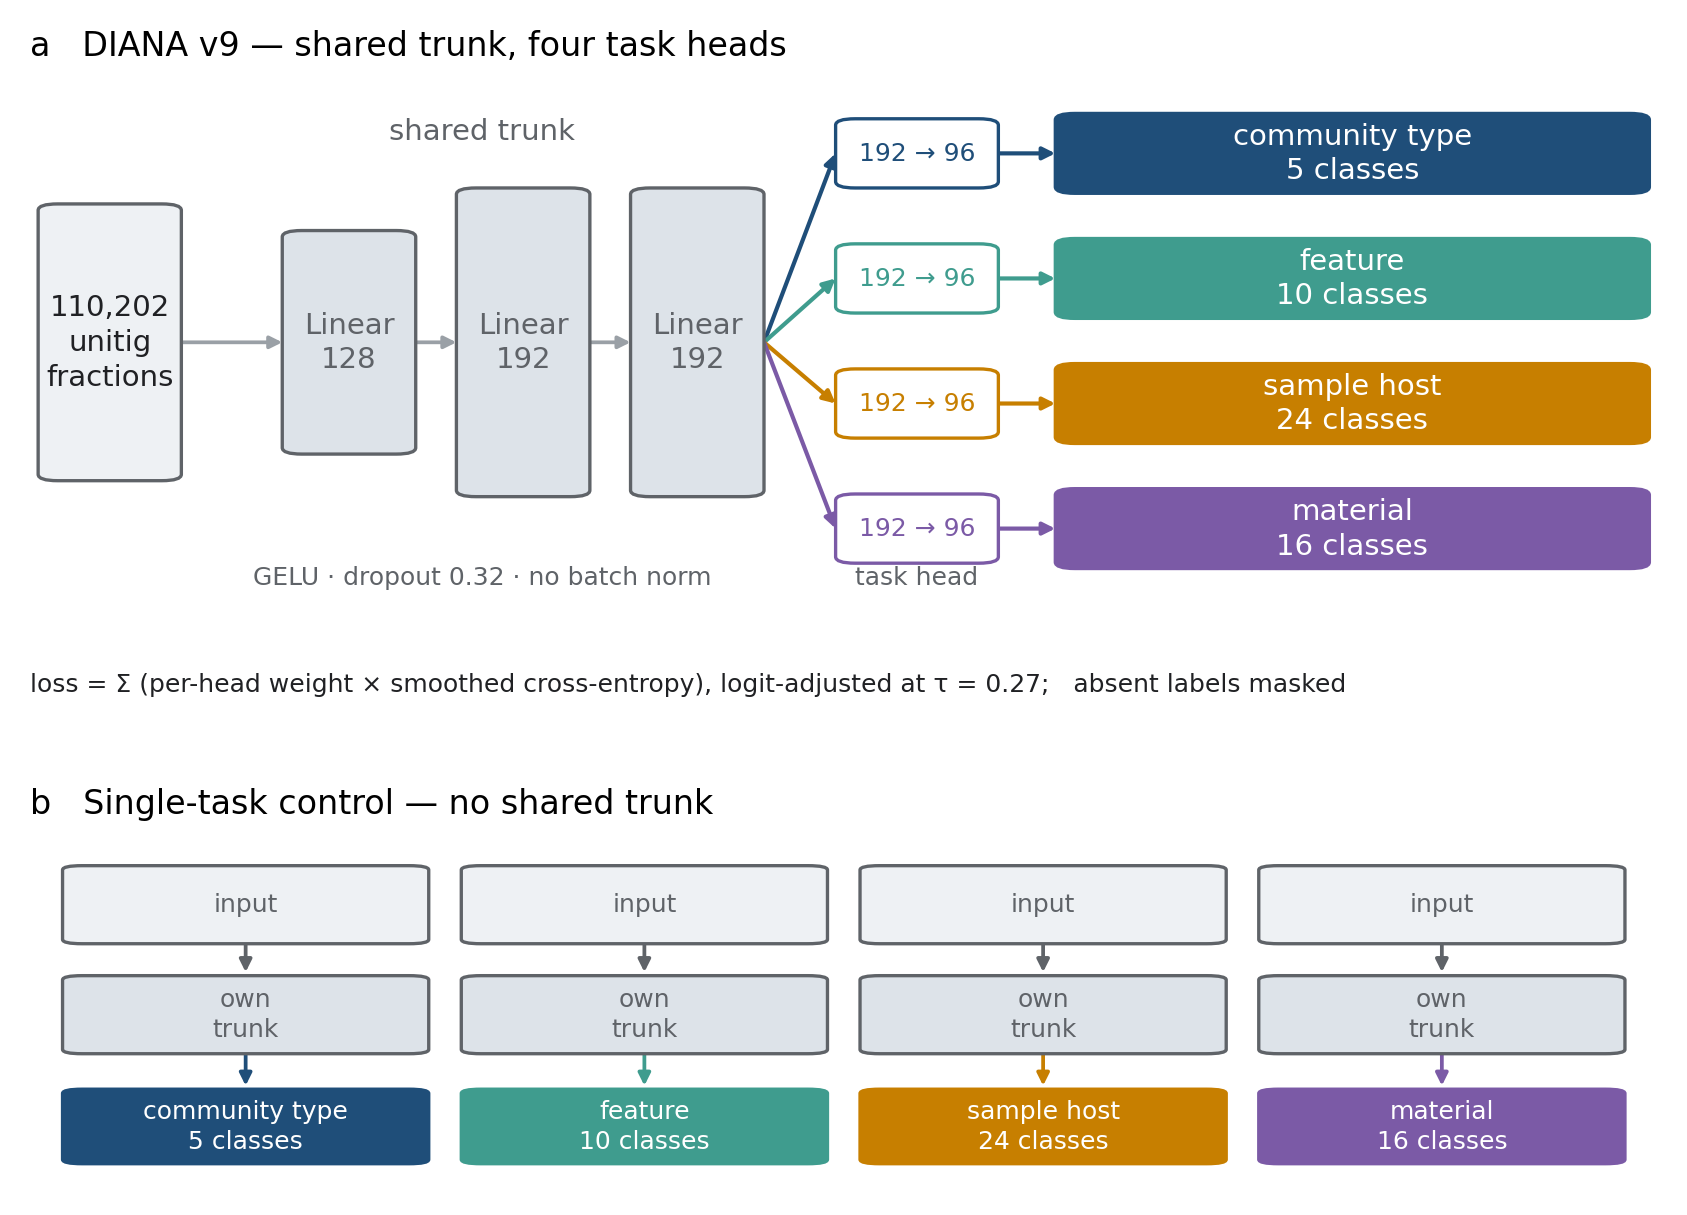
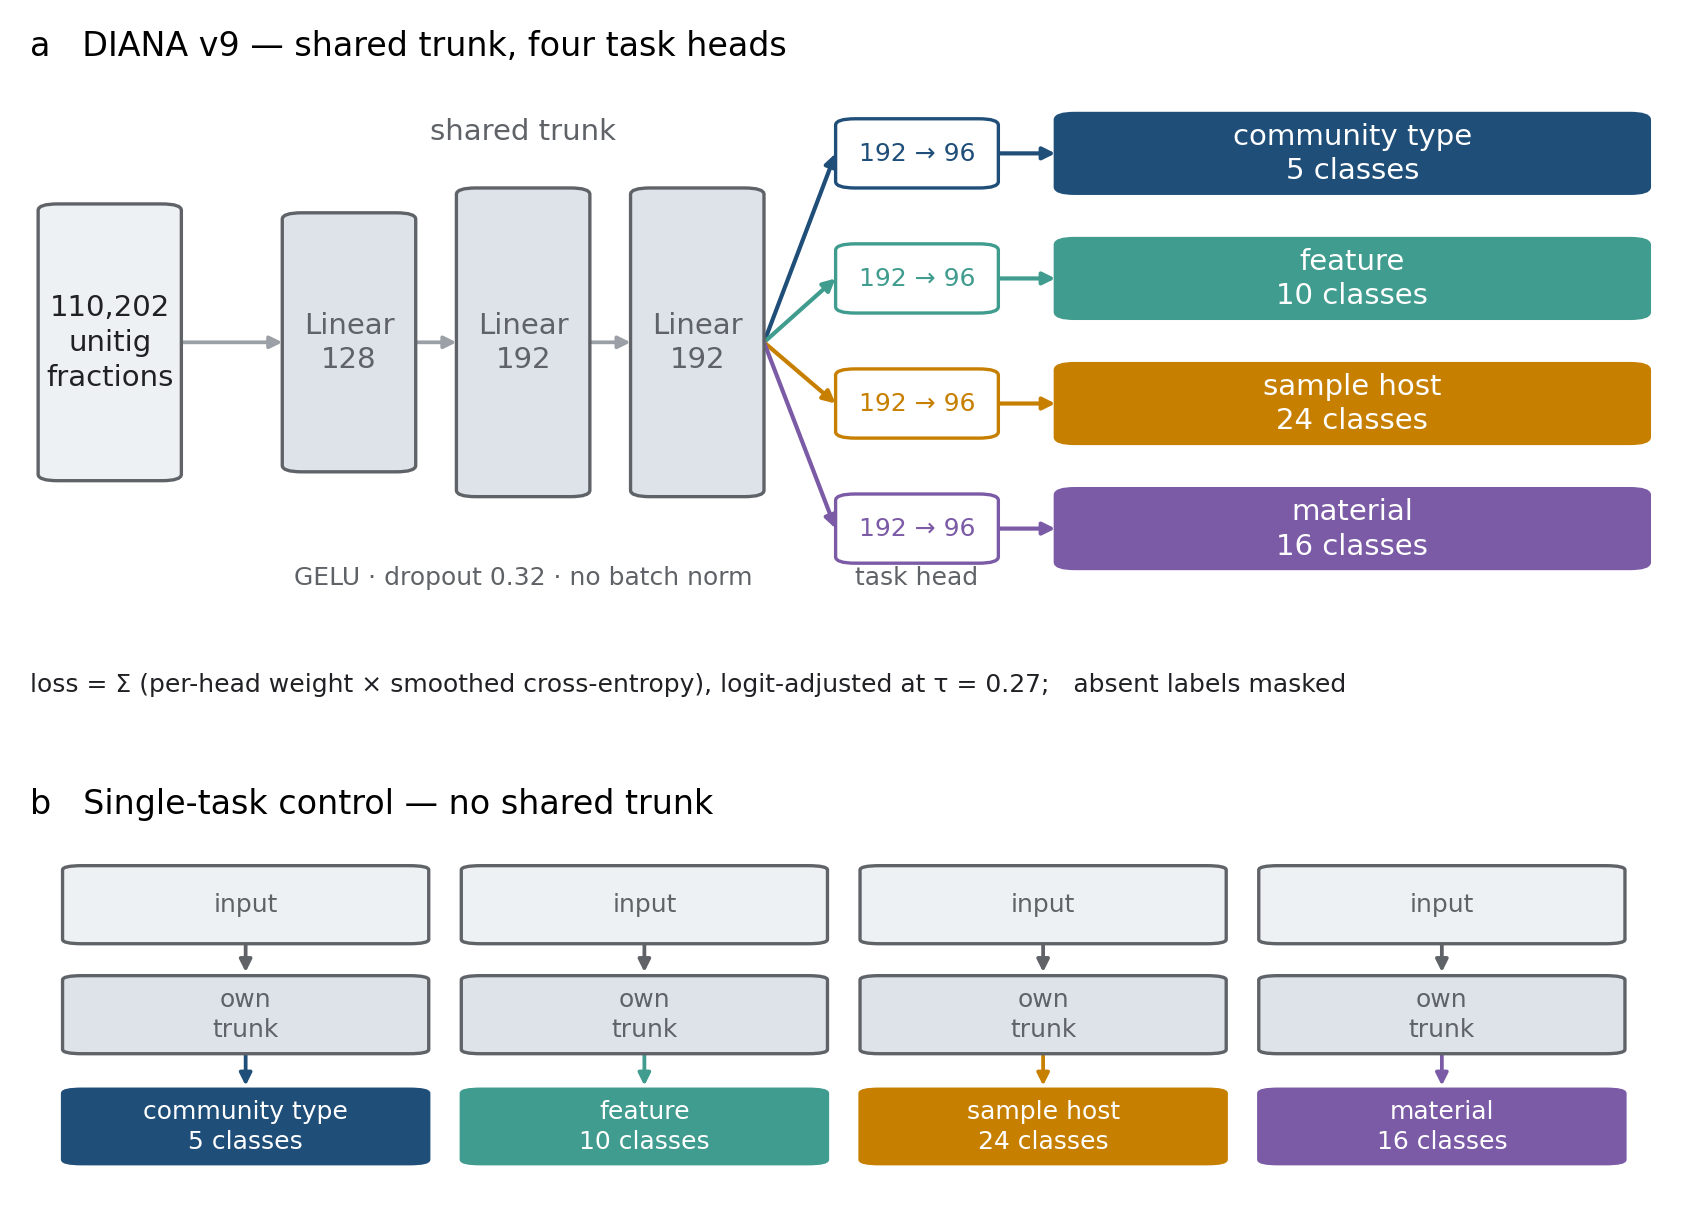
figure: read v9 architecture values from the search output
plot_v9_architecture.py no longer carries the hyperparameters as literals. It
reads them at plot time, first hit wins:

  <search>/final_training_config.json           (resolved hidden_dims)
  <search>/cv_results/best_hyperparameters.json (hidden_dim_<i>, may be float)
  <search>/**/search_all_train_best_params.json (all-train search)

searching results/search_v9_multitask then results/search_v9_final. Optuna
returns hidden_dim_<i> as a float; the loader mirrors aggregate_cv_results.py's
int(round(...)) so the drawn widths are the ones the model was built with.
Trunk geometry is generated from len(hidden_dims), so a search selecting 2 or 4
layers redraws correctly instead of silently keeping three boxes. Head sizes
now come from data/splits_v9/train_metadata.tsv rather than being typed in.

If no search output exists the figure still renders, but from an explicit
FALLBACK dict and with a printed warning not to use it in the paper. The script
also prints the caption with the live numbers, so caption and figure cannot
drift apart.

diff --git a/scripts/paper/plot_v9_architecture.py b/scripts/paper/plot_v9_architecture.py
@@ -29,9 +29,11 @@ Provenance:
 
 Output: results/paper/v9_architecture.png
 """
+import json
 from pathlib import Path
 
 import matplotlib as mpl
+import pandas as pd
 import matplotlib.pyplot as plt
 from matplotlib.patches import FancyArrowPatch, FancyBboxPatch
 
@@ -45,12 +47,90 @@ mpl.rcParams.update({
     "axes.titlesize": BASE, "figure.dpi": 300, "savefig.dpi": 300,
 })
 
-HEADS = [
-    ("community type", 5,  "#1F4E79"),
-    ("feature",        10, "#3F9C8E"),
-    ("sample host",    24, "#C77F00"),
-    ("material",       16, "#7B5AA6"),
-]
+TASKS = ["community_type", "feature", "sample_host", "material"]
+HEAD_LABEL = {"community_type": "community type", "feature": "feature",
+              "sample_host": "sample host", "material": "material"}
+HEAD_COLOUR = {"community_type": "#1F4E79", "feature": "#3F9C8E",
+               "sample_host": "#C77F00", "material": "#7B5AA6"}
+
+# Values used only if no search output exists yet, so the figure still renders
+# while the search runs. Every one is overwritten as soon as it does.
+FALLBACK = {"hidden_dims": [128, 192, 192], "dropout": 0.32, "activation": "gelu",
+            "batch_norm": False, "tau": 0.27,
+            "weights": {"community_type": 1.40, "feature": 1.74,
+                        "sample_host": 1.49, "material": 1.27},
+            "smoothing": {"community_type": 0.02, "feature": 0.04,
+                          "sample_host": 0.07, "material": 0.11}}
+
+SEARCH_DIRS = [ROOT / "results/search_v9_multitask", ROOT / "results/search_v9_final"]
+
+
+def load_searched() -> dict:
+    """Read the hyperparameters the grouped search selected.
+
+    Tried in order, first hit wins:
+      1. <search>/final_training_config.json          (resolved hidden_dims list)
+      2. <search>/cv_results/best_hyperparameters.json (hidden_dim_<i>, may be float)
+      3. <search>/**/search_all_train_best_params.json (single all-train search)
+
+    Optuna returns hidden_dim_<i> as a float; aggregate_cv_results.py converts
+    with int(round(...)) and this mirrors that, so the figure shows exactly the
+    widths the model was built with. Falls back to FALLBACK with a printed
+    warning, never silently.
+    """
+    cands = []
+    for d in SEARCH_DIRS:
+        cands += [d / "final_training_config.json",
+                  d / "cv_results" / "best_hyperparameters.json"]
+        cands += sorted(d.rglob("search_all_train_best_params.json"))
+    src = next((c for c in cands if c.exists()), None)
+    if src is None:
+        print(f"WARNING: no search output under {[str(d) for d in SEARCH_DIRS]} — "
+              "figure drawn from FALLBACK values, do NOT use in the paper")
+        return {**FALLBACK, "source": "FALLBACK (search not finished)"}
+
+    raw = json.loads(src.read_text())
+    p = raw.get("model", raw) if "hidden_dims" in raw.get("model", {}) else raw
+    p = {**raw, **(raw.get("model") or {}), **(raw.get("best_hyperparameters") or {})}
+
+    if isinstance(p.get("hidden_dims"), list):
+        dims = [int(round(v)) for v in p["hidden_dims"]]
+    else:
+        n = int(p.get("n_layers", 3))
+        dims = [int(round(p[f"hidden_dim_{i}"])) for i in range(n)]
+
+    hp = {
+        "hidden_dims": dims,
+        "dropout": float(p["dropout"]),
+        "activation": str(p.get("activation", "gelu")),
+        "batch_norm": bool(round(float(p.get("use_batch_norm", 0)))),
+        "tau": float(p.get("logit_adjust_tau", 0.0) or 0.0),
+        "weights": {t: float(p[f"task_weight_{t}"]) for t in TASKS
+                    if f"task_weight_{t}" in p},
+        "smoothing": {t: float(p[f"ls_{t}"]) for t in TASKS if f"ls_{t}" in p},
+        "source": str(src.relative_to(ROOT)),
+    }
+    for k in ("weights", "smoothing"):
+        if not hp[k]:
+            print(f"WARNING: {k} absent from {hp['source']} — using FALLBACK for it")
+            hp[k] = FALLBACK[k]
+    return hp
+
+
+def class_counts() -> dict:
+    """Head sizes as they are in the split the model was trained on."""
+    md = pd.read_csv(ROOT / "data/splits_v9/train_metadata.tsv", sep="\t",
+                     low_memory=False)
+    out = {}
+    for t in TASKS:
+        v = md[t].astype(str).str.strip()
+        out[t] = int(v[~v.str.lower().isin(["nan", "none", "null", ""])].nunique())
+    return out
+
+
+HP = load_searched()
+NCLS = class_counts()
+HEADS = [(HEAD_LABEL[t], NCLS[t], HEAD_COLOUR[t]) for t in TASKS]
 GREY, INK, TRUNK = "#9AA0A6", "#202124", "#5F6368"
 FILL = "#DDE3E9"
 
@@ -82,30 +162,37 @@ for ax in (axa, axb):
 box(axa, 0.005, 0.24, 0.088, 0.52, "#EEF1F4", TRUNK,
     "110,202\nunitig\nfractions", ANN)
 
-trunk_x, trunk_h = [0.155, 0.262, 0.369], [0.42, 0.58, 0.58]
-for i, (x, h) in enumerate(zip(trunk_x, trunk_h)):
-    box(axa, x, 0.5 - h / 2, 0.082, h, FILL, TRUNK,
-        f"Linear\n{[128, 192, 192][i]}", ANN, TRUNK)
-    arrow(axa, 0.093 if i == 0 else trunk_x[i - 1] + 0.082, 0.5, x, 0.5)
+dims = HP["hidden_dims"]
+bw, gap, x0 = 0.082, 0.025, 0.155
+trunk_x = [x0 + i * (bw + gap) for i in range(len(dims))]
+trunk_h = [0.30 + 0.28 * (d / max(dims)) for d in dims]
+for i, (x, h, d) in enumerate(zip(trunk_x, trunk_h, dims)):
+    box(axa, x, 0.5 - h / 2, bw, h, FILL, TRUNK, f"Linear\n{d}", ANN, TRUNK)
+    arrow(axa, 0.093 if i == 0 else trunk_x[i - 1] + bw, 0.5, x, 0.5)
+trunk_mid = (trunk_x[0] + trunk_x[-1] + bw) / 2
+head_x = trunk_x[-1] + bw + 0.044
 
-axa.text(0.278, 0.87, "shared trunk", ha="center", va="bottom",
+axa.text(trunk_mid, 0.87, "shared trunk", ha="center", va="bottom",
          fontsize=ANN, color=TRUNK)
-axa.text(0.278, 0.08, "GELU · dropout 0.32 · no batch norm",
+axa.text(trunk_mid, 0.08,
+         f"{HP['activation'].upper()} · dropout {HP['dropout']:.2f} · "
+         f"{'batch norm' if HP['batch_norm'] else 'no batch norm'}",
          ha="center", va="top", fontsize=TICK, color=TRUNK)
 
 ys = [0.855, 0.620, 0.385, 0.150]
 for (name, k, col), y in zip(HEADS, ys):
-    arrow(axa, 0.451, 0.5, 0.495, y, color=col, lw=1.0)
-    box(axa, 0.495, y - 0.065, 0.100, 0.13, "white", col, "192 → 96", TICK, col)
-    arrow(axa, 0.595, y, 0.630, y, color=col, lw=1.0)
+    arrow(axa, trunk_x[-1] + bw, 0.5, head_x, y, color=col, lw=1.0)
+    box(axa, head_x, y - 0.065, 0.100, 0.13, "white", col,
+        f"{dims[-1]} → {dims[-1] // 2}", TICK, col)
+    arrow(axa, head_x + 0.100, y, 0.630, y, color=col, lw=1.0)
     box(axa, 0.630, y - 0.075, 0.365, 0.15, col, col,
         f"{name}\n{k} classes", ANN, "white")
 
-axa.text(0.545, 0.08, "task head", ha="center", va="top",
+axa.text(head_x + 0.050, 0.08, "task head", ha="center", va="top",
          fontsize=TICK, color=TRUNK)
 axa.text(0.0, -0.12,
          "loss = Σ (per-head weight × smoothed cross-entropy), "
-         "logit-adjusted at τ = 0.27;   absent labels masked",
+         f"logit-adjusted at τ = {HP['tau']:.2f};   absent labels masked",
          transform=axa.transAxes, ha="left", va="top", fontsize=TICK, color=INK)
 
 # ------------------------------------------------------------------ panel b
@@ -120,6 +207,28 @@ axa.set_title("a   DIANA v9 — shared trunk, four task heads", loc="left", pad=
 axb.set_title("b   Single-task control — no shared trunk", loc="left", pad=4)
 
 fig.savefig(OUT / "v9_architecture.png", bbox_inches="tight")
+
+w = HP["weights"]; ls = HP["smoothing"]
+print(f"hyperparameters read from: {HP['source']}")
+print("CAPTION (paste into the paper / PROJECT.md):")
+print(f"  DIANA v9. A shared trunk of {len(dims)} fully-connected blocks "
+      f"({', '.join(str(d) for d in dims)} units; {HP['activation'].upper()}; "
+      f"dropout {HP['dropout']:.2f}; "
+      f"{'batch normalisation' if HP['batch_norm'] else 'no batch normalisation'}) "
+      f"maps the 110,202-dimensional unitig-fraction vector, standardised with "
+      f"statistics fit on the training folds, to {len(TASKS)} task-specific heads. "
+      f"Each head is Linear({dims[-1]} -> {dims[-1] // 2}) -> "
+      f"{HP['activation'].upper()} -> dropout -> Linear. The objective is a "
+      f"weighted sum of per-head cross-entropies with logit adjustment at "
+      f"tau = {HP['tau']:.2f}; absent labels are masked rather than encoded as a "
+      f"class. Per-head loss weights are "
+      + ", ".join(f"{w[t]:.2f} ({HEAD_LABEL[t]})" for t in TASKS if t in w)
+      + ", with label smoothing "
+      + ", ".join(f"{ls[t]:.2f}" for t in TASKS if t in ls)
+      + " respectively. Head sizes are "
+      + ", ".join(f"{NCLS[t]} ({HEAD_LABEL[t]})" for t in TASKS)
+      + " classes. (b) The single-task control: the same recipe fitted "
+        "independently per target, with no shared trunk.")
 
 r = fig.canvas.get_renderer()
 tick = {t for ax in fig.axes for t in ax.get_xticklabels() + ax.get_yticklabels()}
